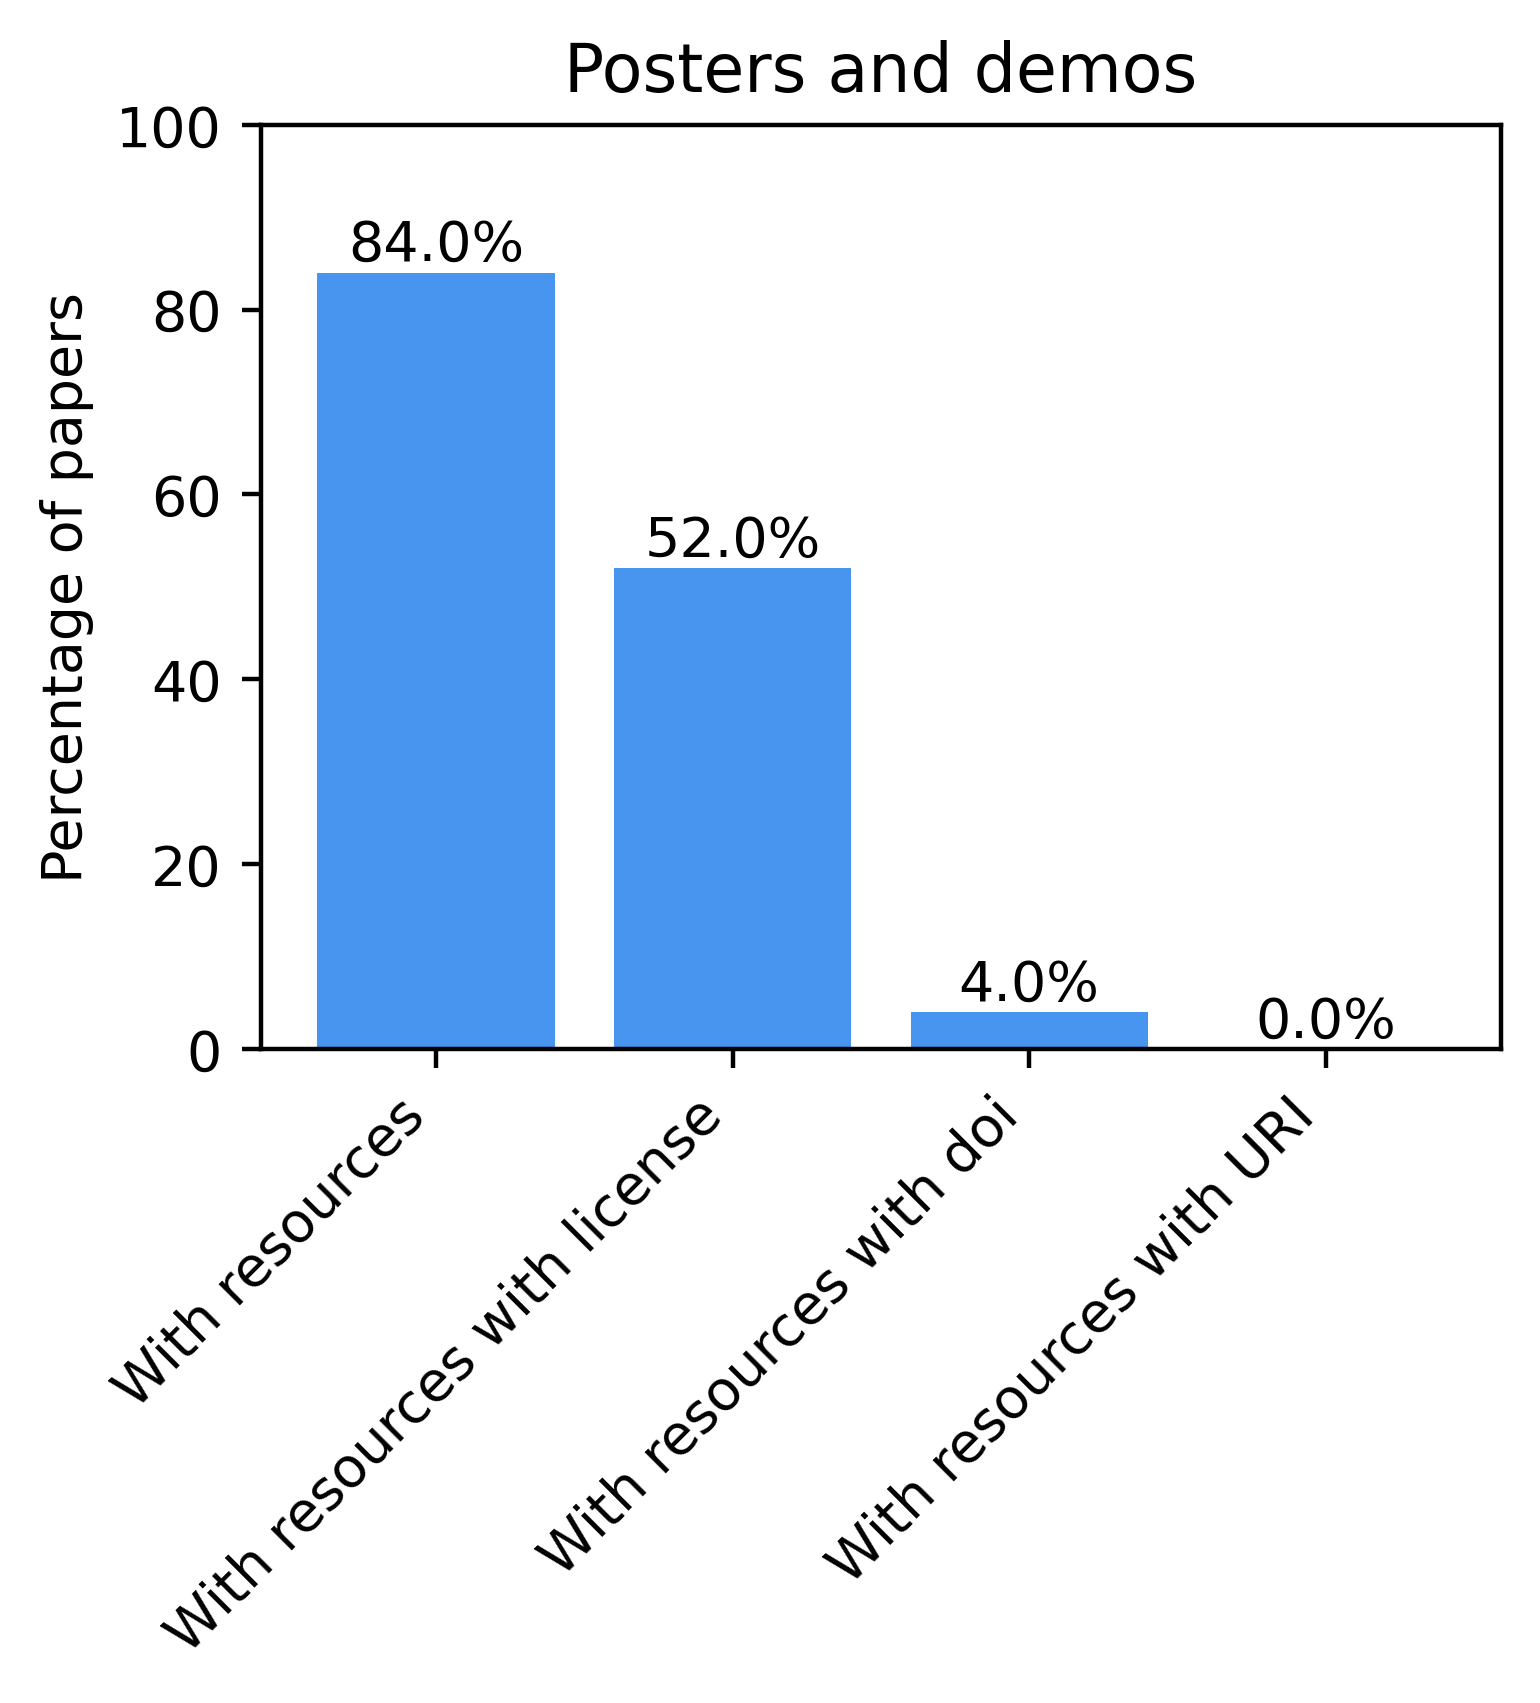
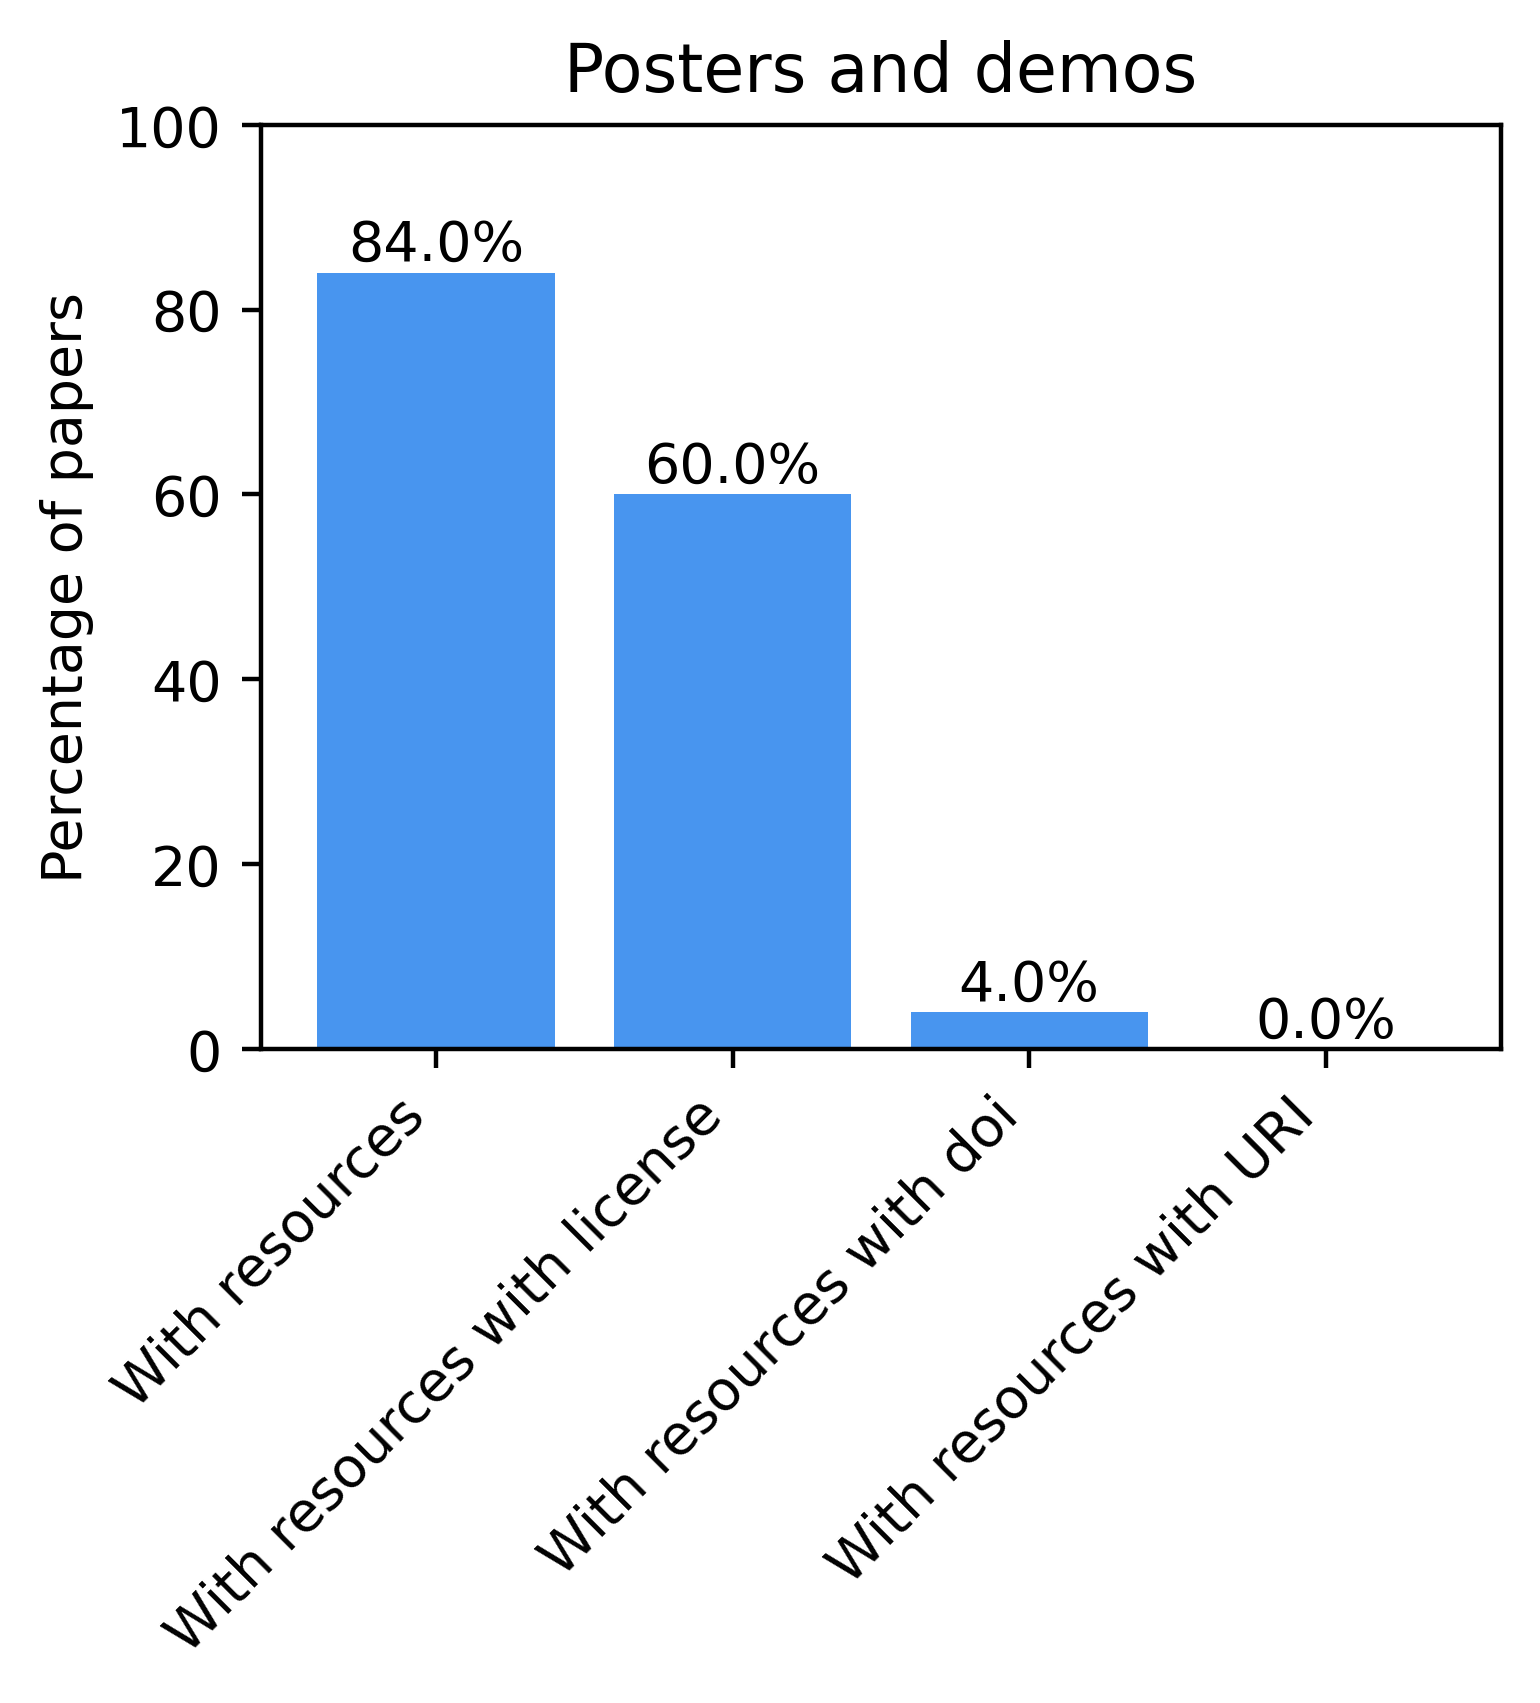
kg stats updated

Changed region(s): [[0.374, 0.249, 0.561, 0.3423]]

diff --git a/kg/graph_statistics/README.md b/kg/graph_statistics/README.md
@@ -13,15 +13,17 @@ From the current folder: `python generate_stats.py`
 - Number of accepted papers (Research, Industry, Posters and Demos):  73
 - Number of papers with resources: 45
 - Papers with datasets, with code or ontologies:
-    - Software Source Code: 43
+    - Software Source Code: 42
     - Ontology: 8
     - Demo: 14
     - Dataset: 17
-- Resources with license:  39
-- Papers with resources with license:  25
+    - ORKG Comparison: 3
+    - ORKG Paper: 1
+- Resources with license:  42
+- Papers with resources with license:  30
 - Papers with no license in some resource:  28
-- Resources with DOIs:  7
-- Papers with resources with DOIs:  5
+- Resources with DOIs:  10
+- Papers with resources with DOIs:  8
 - Papers storing data in GitHub:  2
 
 <p align="center">
